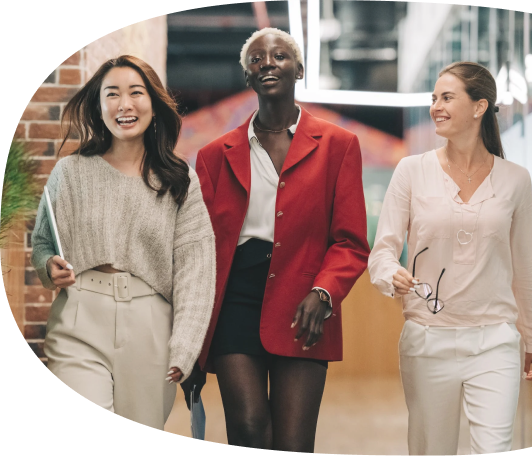
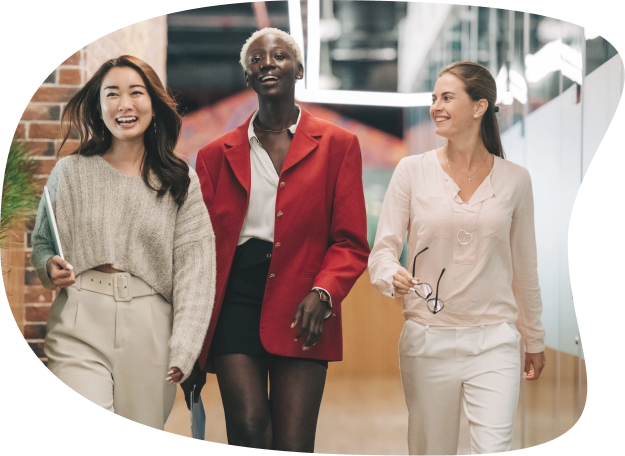
Add overfolow hidden and change picture to a bigger one

diff --git a/app/components/Hero.tsx b/app/components/Hero.tsx
@@ -16,9 +16,9 @@ const Hero = () => {
                 alignItems: 'center',
             }}
         >
-            <div className="max-w-screen-2xl flex justify-center items-center">
+            <div className="max-w-screen-2xl flex justify-center items-center overflow-x-hidden">
                 <div className="max-w-screen-md p-2 md:p-8">
-                    <div className="space-y-6">
+                    <div className="pl-24">
                         <h1 className="text-4xl md:text-5xl font-poppins font-semibold">
                             Let’s Create an Inclusive <br /> Workspace Together
                         </h1>
@@ -51,13 +51,13 @@ const Hero = () => {
                         </div>
                     </div>
                 </div>
-                <div className="hidden lg:flex md:flex-1 md:justify-end">
+                <div className="hidden lg:flex md:flex-1 md:justify-end relative left-12">
                     <Image
                         src={HeroImage}
                         alt="hero image"
                         sizes="(max-width: 768px) 100vw, (max-width: 1200px) 50vw, 33vw"
-                        width={520}
-                        height={410}
+                        width={620}
+                        height={550}
                     />
                 </div>
             </div>
